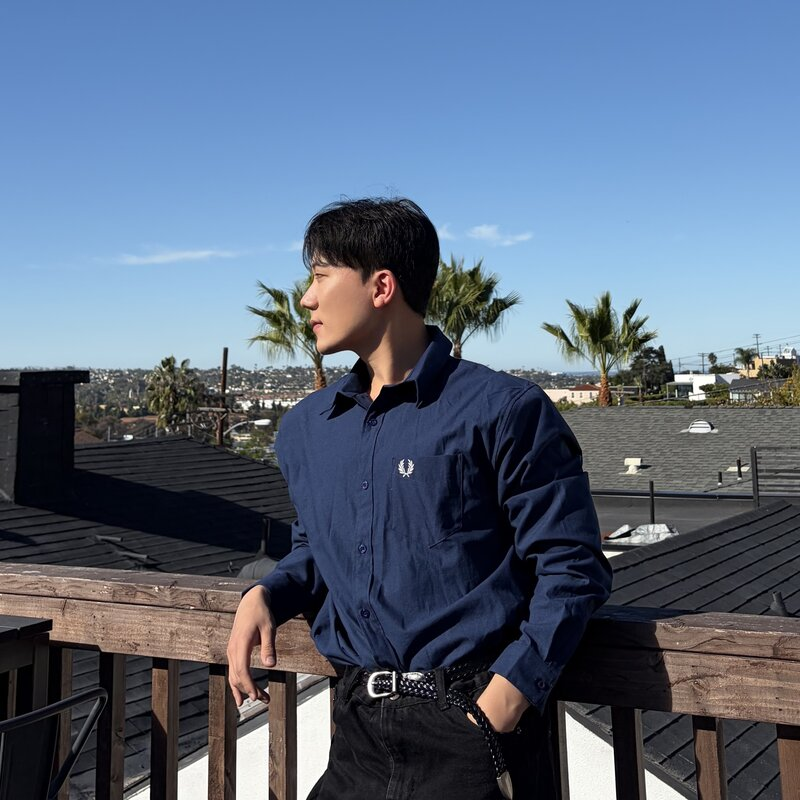
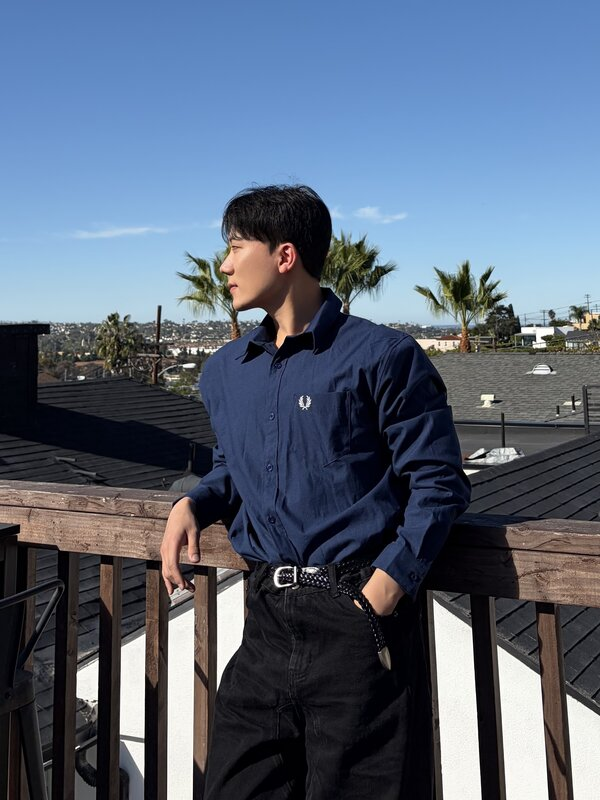
Profile photo: 3:4 portrait crop

diff --git a/assets/css/style.css b/assets/css/style.css
@@ -169,7 +169,7 @@ span.highlight {
 .intro-photo img {
   width: 100%;
   max-width: 100%;
-  aspect-ratio: 1 / 1;
+  aspect-ratio: 3 / 4;
   object-fit: cover;
   border-radius: 6px;
 }
